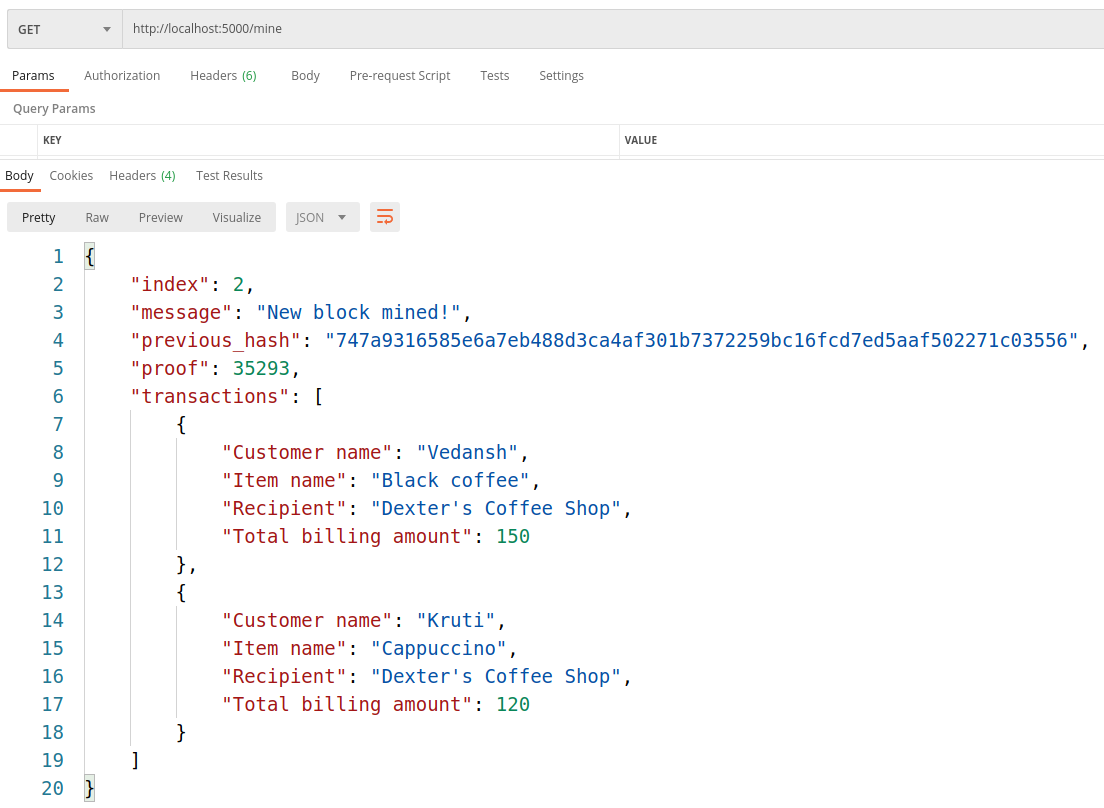
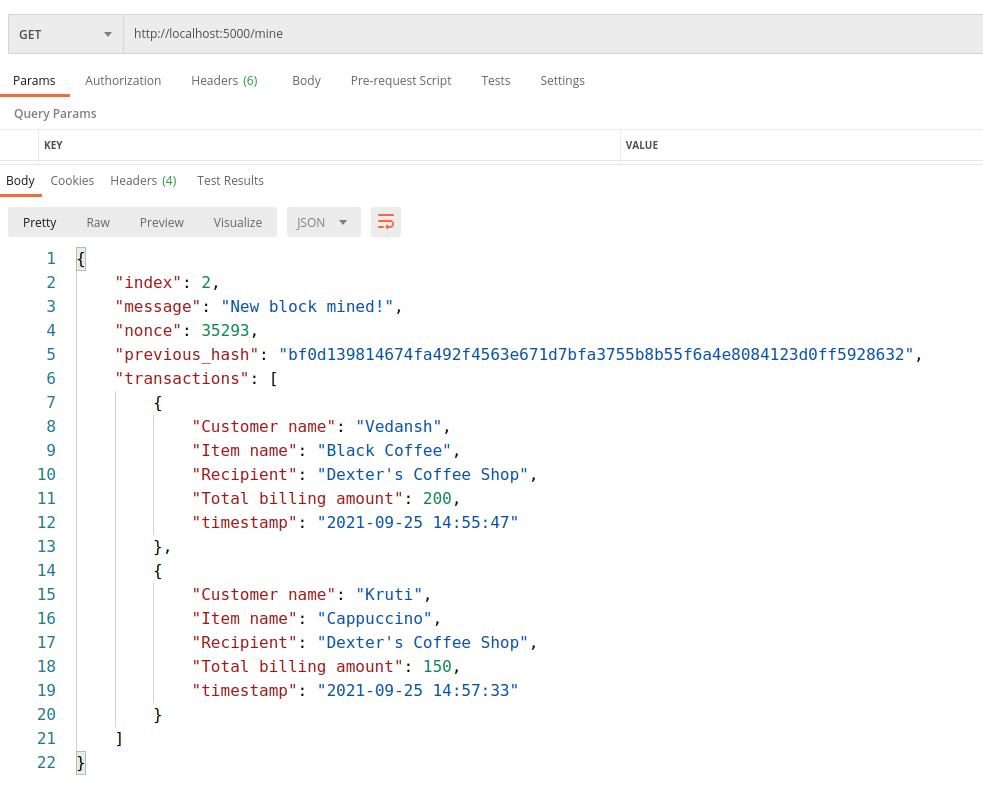
changed

diff --git a/Blockchain/blockchain.py b/Blockchain/blockchain.py
@@ -29,12 +29,12 @@ class Blockchain(object):
     
 
     # Method to create a new block in the Blockchain
-    def new_block(self, proof, previous_hash = None):
+    def new_block(self, proof,previous_hash = None):
         block = {
             'index': len(self.chain) + 1,
             'timestamp': datetime.now().strftime('%Y-%m-%d %H:%M:%S'),
             'transactions': self.unverified_transactions,
-            'proof': proof,
+            'nonce': proof,
             'previous_hash': previous_hash or self.hash(self.chain[-1])
         }
         self.verified_transactions += self.unverified_transactions
@@ -51,7 +51,8 @@ class Blockchain(object):
             'Customer name': sender,
             'Recipient': "Dexter's Coffee Shop",
             'Item name': item_name,
-            'Total billing amount': bill_amount
+            'Total billing amount': bill_amount,
+            'timestamp': datetime.now().strftime('%Y-%m-%d %H:%M:%S')
         })
         return self.last_block['index'] + 1
 
@@ -65,7 +66,8 @@ class Blockchain(object):
     @staticmethod
     def hash(block):       
         block_string = json.dumps(block, sort_keys = True).encode()
-        return hashlib.sha256(block_string).hexdigest()
+        hash_val = hashlib.sha256(block_string).hexdigest()
+        return hash_val
     
 
     #Method to calculate the proof of work
@@ -104,7 +106,7 @@ class Blockchain(object):
                 return False
             
             #If the proof of work is incorrect then return false            
-            if not self.valid_proof(last_block['proof'], block['proof']):
+            if not self.valid_proof(last_block['nonce'], block['nonce']):
                 return False
             
             last_block = block

diff --git a/Blockchain/main.py b/Blockchain/main.py
@@ -15,7 +15,7 @@ def mine():
     # To ensure that a new block is mined only if there are atleast 2 transactions
     if len(blockchain.unverified_transactions) >= 2:
         last_block = blockchain.last_block
-        last_proof = last_block['proof']
+        last_proof = last_block['nonce']
         proof = blockchain.proof_of_work(last_proof)
         previous_hash = blockchain.hash(last_block)
         block = blockchain.new_block(proof, previous_hash)
@@ -24,7 +24,7 @@ def mine():
             'message': "New block mined!",
             'index': block['index'],
             'transactions': block['transactions'],
-            'proof': block['proof'],
+            'nonce': block['nonce'],
             'previous_hash': block['previous_hash']
         }
         print(len(blockchain.unverified_transactions))
@@ -32,7 +32,7 @@ def mine():
 
     else:
         response = {
-            'message' : 'Not enough transactions to mine a new block!'
+            'message' : 'Not enough transactions to mine a new block and add to chain!'
         }
         print(len(blockchain.unverified_transactions))
         return jsonify(response),400

diff --git a/README.md b/README.md
@@ -21,21 +21,25 @@ Implementation of a simple blockchain for Dexter's coffee shop with the followin
     1) `/transactions/new`
 
         This POST method initiates a new transaction and requires the user to enter the customer name, item name and total billing amount in JSON format.
+
         ![New transaction](./images/transaction.png)
 
     2) `/mine`
 
-        This GET route mines a new block to the blockchain by calculating the proof of work. We will be able add a new block to the chain only if there are minimum 2 transactions in that block. 
+        This GET route mines a new block to the blockchain by calculating the proof of work. We will be able add a new block to the chain only if there are minimum 2 transactions in that block. Timestamp of each transaction are readily available.
+
         ![Block structure](./images/block.png)
 
     3) `/chain`
 
         This GET method facilitates the user to view its entire blockchain.
+
         ![Blockchain](./images/chain.png)
 
     4) `/nodes/add`
 
         This POST route requires the user to enter the list of URLs of the nodes to be added to the network. Make sure to run this endpoint from all ports before begining any transactions (in case you want to have a multi-node network).
+
         ![Multiple nodes](./images/nodes.png)
 
     5) `chain/resolve`
@@ -44,7 +48,7 @@ Implementation of a simple blockchain for Dexter's coffee shop with the followin
 
 
 ## Tech stack 
-* The project is built using Python-Flask framework. 
+* The project is built using Python-Flask framework and tested on Ubuntu.
 * Postman was used to test and interact with the endpoints.
 
 ## How to run
@@ -53,7 +57,7 @@ Implementation of a simple blockchain for Dexter's coffee shop with the followin
     * `pip3 install flask`
     * `pip3 install requests`
 
-2) Run the server:
+2) `cd Blockchain` and run the server:
     * `python3 main.py`
 
         We can open different network ports on the same machine to simulate multinode network
